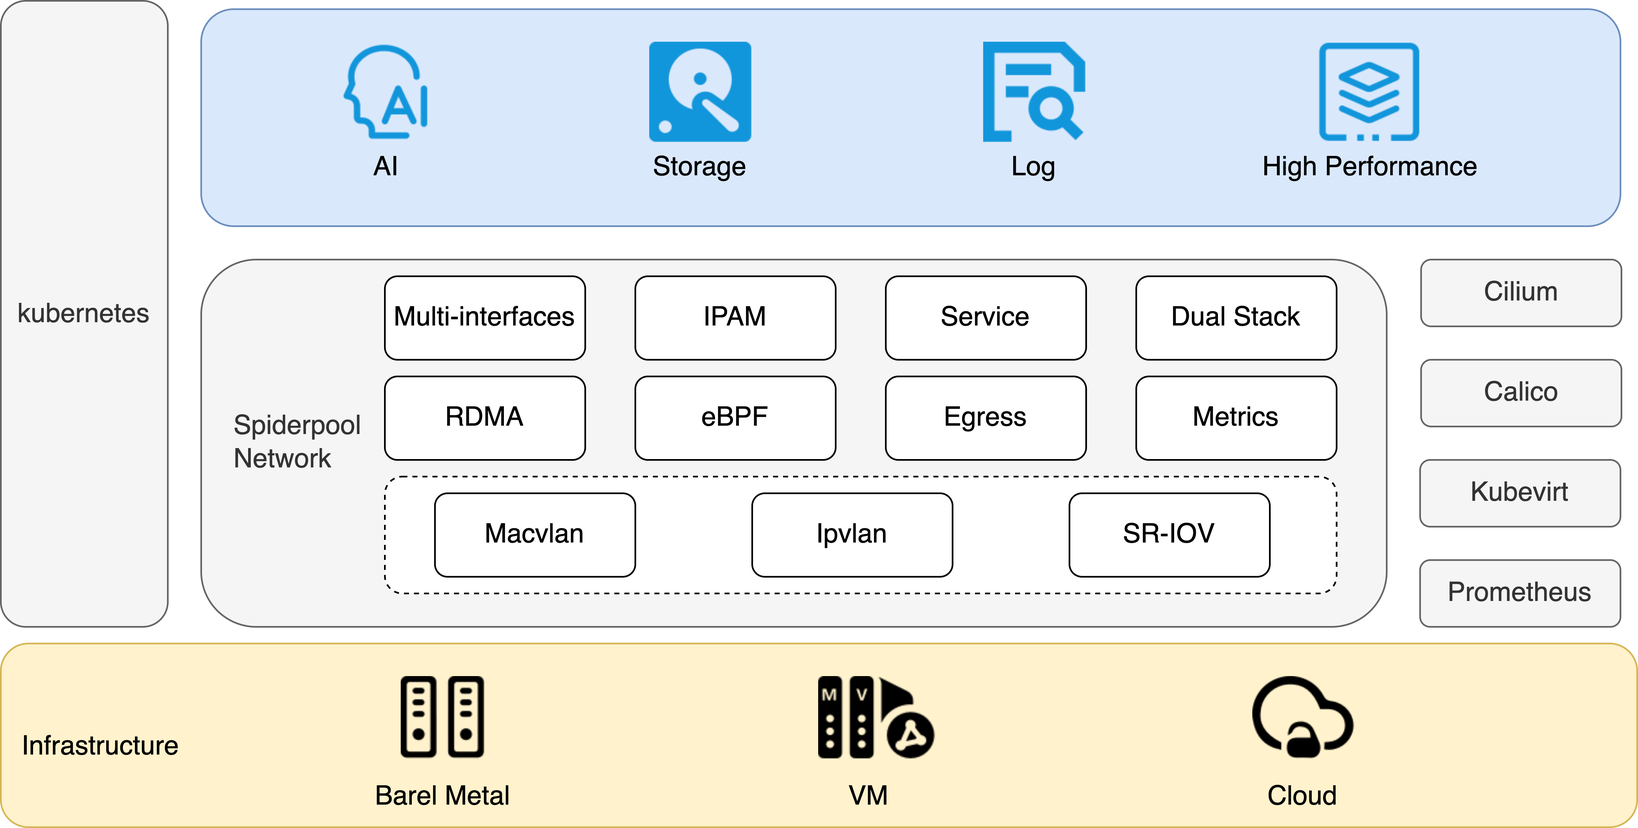
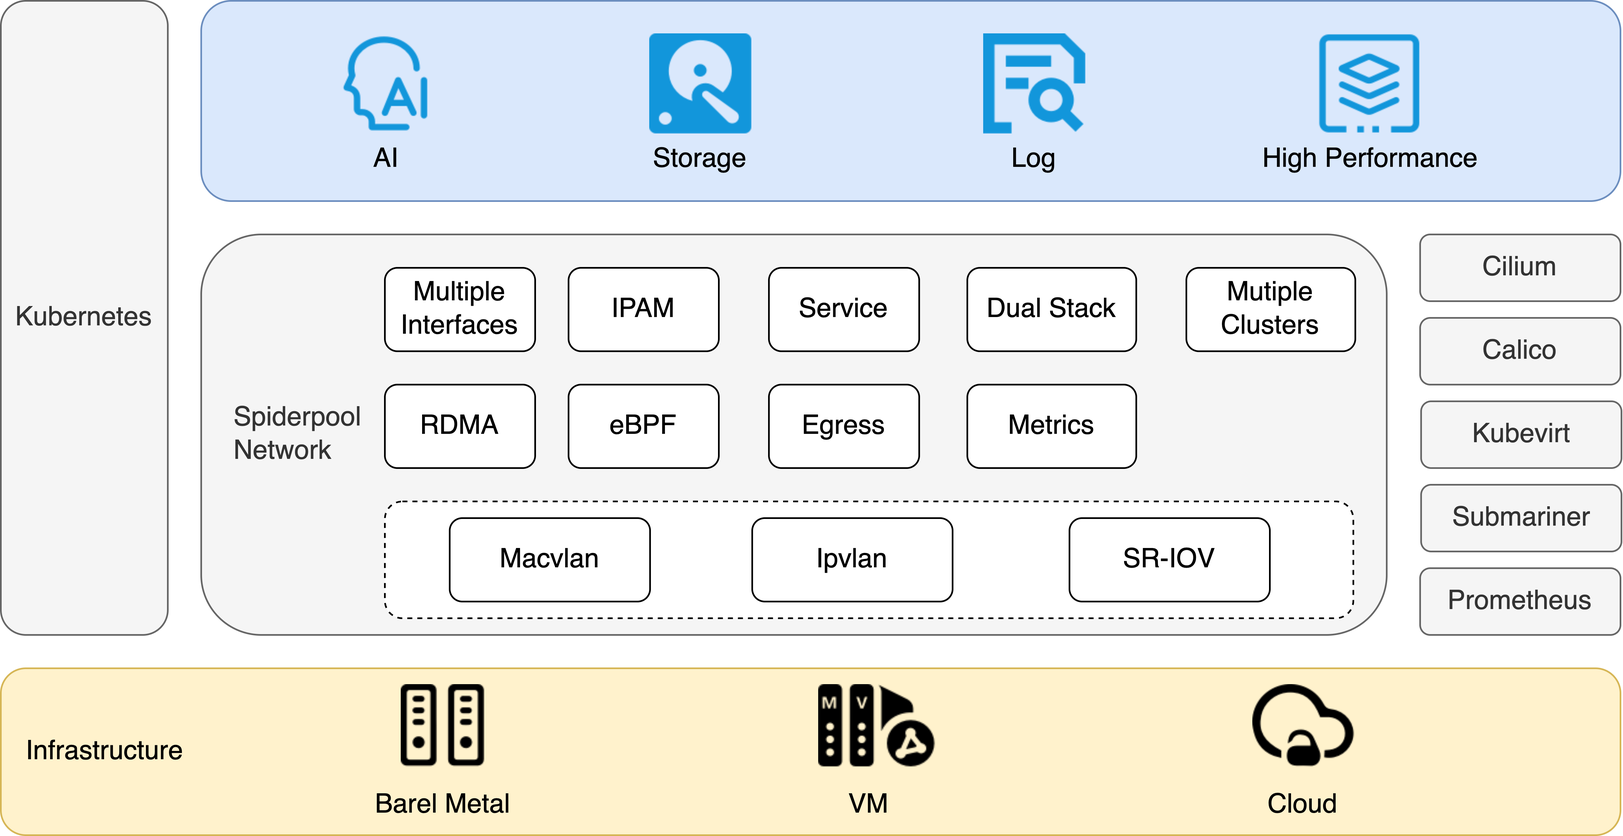
docs: rebase main

diff --git a/README.md b/README.md
@@ -20,9 +20,9 @@
 
 ## Introduction
 
-Spiderpool is a Kubernetes underlay network solution that enhances the capabilities of [Macvlan CNI](https://github.com/containernetworking/plugins/tree/main/plugins/main/macvlan),
+Spiderpool is an underlay and RDMA network solution for the Kubernetes. It enhances the capabilities of [Macvlan CNI](https://github.com/containernetworking/plugins/tree/main/plugins/main/macvlan),
 [ipvlan CNI](https://github.com/containernetworking/plugins/tree/main/plugins/main/ipvlan),
-[SR-IOV CNI](https://github.com/k8snetworkplumbingwg/sriov-cni).It fulfills various networking needs and enables the utilization of underlay network solutions in **bare metal, virtual machine, and public cloud environments**. Spiderpool delivers exceptional network performance, particularly benefiting network I/O-intensive and low-latency applications like **storage, middleware, and AI**.
+[SR-IOV CNI](https://github.com/k8snetworkplumbingwg/sriov-cni), and fulfills various networking needs and enables the utilization of underlay network solutions in **bare metal, virtual machine, and public cloud environments**. Spiderpool delivers exceptional network performance, particularly benefiting network I/O-intensive and low-latency applications like **storage, middleware, and AI**.
 It could refer to [website](https://spidernet-io.github.io/spiderpool/) for more details.
 
 **Why does Spiderpool select macvlan, ipvlan, and SR-IOV as datapaths?**
@@ -47,21 +47,21 @@ It could refer to [website](https://spidernet-io.github.io/spiderpool/) for more
 
     Spiderpool simplifies the installation process by eliminating the need for manually installing multiple components like [Multus CNI](https://github.com/k8snetworkplumbingwg/multus-cni). It provides streamlined installation procedures, encapsulates relevant CRDs, and offers comprehensive documentation for easy setup and management.
 
-* CRD-based dual-stack IPAM capability
+* CRD-based dual-stack IPAM
 
     Spiderpool provides exclusive and shared IP address pools, supporting various affinity settings. It allows configuring specific IP addresses for stateful applications like middleware and kubevirt, while enabling fixed IP address ranges for stateless ones. Spiderpool automates the management of exclusive IP pools, ensuring excellent IP reclamation to avoid IP leakage. In additions, it owns [wonderful IPAM performance](./docs/concepts/ipam-performance.md) .
 
-* Multiple network interface access for Pods
+* Multiple network interfaces for Pods
 
     Spiderpool enables scenarios where Pods can have multiple underlay CNI interfaces or a combination of overlay and underlay CNI interfaces. It ensures proper IP addressing for each CNI interface and effectively manages policy routing to maintain consistent data paths, eliminating packet loss concerns. It could strengthen [cilium](https://github.com/cilium/cilium), [calico](https://github.com/projectcalico/calico), [kubevirt](https://github.com/kubevirt/kubevirt) .
 
 * Enhanced network connectivity
 
-    Spiderpool establishes seamless connectivity between Pods and host machines, ensuring smooth functioning of Pod health checks. It enables Pods to access services through kube-proxy or eBPF-based kube-proxy replacement. Additionally, it supports advanced features like IP conflict detection and gateway reachability checks.
+    Spiderpool establishes seamless connectivity between Pods and host machines, ensuring smooth functioning of Pod health checks. It enables Pods to access services through kube-proxy or eBPF-based kube-proxy replacement. Additionally, it supports advanced features like IP conflict detection and gateway reachability checks. The network of Multi-cluster could be connected by a same underlay network, or [Submariner](https://github.com/submariner-io/submariner) .
 
 * eBPF enhancements
 
-    The eBPF-based kube-proxy replacement significantly accelerates service access, while socket short-circuiting technology improves local Pod communication efficiency within the same node. Compared with kube-proxy manner, [the improvement of the performance is Up to 25% on network delay, up to 50% on network throughput]((./docs/concepts/io-performance.md)).
+    The eBPF-based kube-proxy replacement significantly accelerates service access, while socket short-circuiting technology improves local Pod communication efficiency within the same node. Compared with kube-proxy manner, [the improvement of the performance is Up to 25% on network delay, up to 50% on network throughput](./docs/concepts/io-performance.md). 
 
 * RDMA support
 
@@ -93,6 +93,8 @@ Spiderpool, powered by underlay CNI, offers unparalleled network performance com
 
 Refer to [Quick start](./docs/usage/install/get-started-kind.md) to explore Spiderpool quickly.
 
+Refer to [Usage](./docs/usage/readme.md) for kinds of usages.
+
 ## Spiderpool Architecture
 
 Spiderpool features a well-designed and comprehensive architecture that caters to various application scenarios, including:
@@ -109,17 +111,18 @@ For more detailed information, please refer to [Spiderpool Architecture](./docs/
 
 ## Major Features
 
-| Features                               | macvlan    | ipvlan | SR-IOV      |
-|----------------------------------|------------|--|-------------|
-| Service by kubeproxy             | Beta       |  Beta | Beta        |
-| Service by kubeproxy replacement | Alpha      |  Alpha | Alpha       |
-| Network policy                   | In-plan    |  Alpha | In-plan     |
-| Bandwidth                        | In-plan    | Alpha | In-plan     |
-| RDMA                             | Alpha      | Alpha | Alpha       |
-| IPAM                             | Beta       | Beta | Beta        |
-| Egress policy                    | Alpha      | Alpha | Alpha       |
-| Multiple NIC and routing coordination                         | Beta       | Beta | Beta        |
-| Applied scenarios                             | Bare metal | Bare metal and VM | Bare metal  |
+| Features                               | macvlan    | ipvlan            | SR-IOV      |
+|----------------------------------|------------|-------------------|-------------|
+| Service By Kubeproxy             | Beta       | Beta              | Beta        |
+| Service By Kubeproxy Replacement | Alpha      | Alpha             | Alpha       |
+| Network Policy                   | In-plan    | Alpha             | In-plan     |
+| Bandwidth                        | In-plan    | Alpha             | In-plan     |
+| RDMA                             | Alpha      | Alpha             | Alpha       |
+| IPAM                             | Beta       | Beta              | Beta        |
+| Multi-Cluster                    | Alpha    | Alpha             | Alpha     |
+| Egress Policy                    | Alpha      | Alpha             | Alpha       |
+| Multiple NIC And Routing Coordination                         | Beta       | Beta              | Beta        |
+| Scenarios                             | Bare metal | Bare metal and VM | Bare metal  |
 
 For detailed information about all the planned features, please refer to the [roadmap](./docs/develop/roadmap.md).
 

diff --git a/docs/README.md b/docs/README.md
@@ -20,9 +20,9 @@
 
 ## Introduction
 
-Spiderpool is a Kubernetes underlay network solution that enhances the capabilities of [Macvlan CNI](https://github.com/containernetworking/plugins/tree/main/plugins/main/macvlan),
+Spiderpool is an underlay and RDMA network solution for the Kubernetes. It enhances the capabilities of [Macvlan CNI](https://github.com/containernetworking/plugins/tree/main/plugins/main/macvlan),
 [ipvlan CNI](https://github.com/containernetworking/plugins/tree/main/plugins/main/ipvlan),
-[SR-IOV CNI](https://github.com/k8snetworkplumbingwg/sriov-cni).It fulfills various networking needs and enables the utilization of underlay network solutions in **bare metal, virtual machine, and public cloud environments**. Spiderpool delivers exceptional network performance, particularly benefiting network I/O-intensive and low-latency applications like **storage, middleware, and AI**.
+[SR-IOV CNI](https://github.com/k8snetworkplumbingwg/sriov-cni), and fulfills various networking needs and enables the utilization of underlay network solutions in **bare metal, virtual machine, and public cloud environments**. Spiderpool delivers exceptional network performance, particularly benefiting network I/O-intensive and low-latency applications like **storage, middleware, and AI**.
 It could refer to [website](https://spidernet-io.github.io/spiderpool/) for more details.
 
 **Why does Spiderpool select macvlan, ipvlan, and SR-IOV as datapaths?**
@@ -47,21 +47,21 @@ It could refer to [website](https://spidernet-io.github.io/spiderpool/) for more
 
   Spiderpool simplifies the installation process by eliminating the need for manually installing multiple components like [Multus CNI](https://github.com/k8snetworkplumbingwg/multus-cni). It provides streamlined installation procedures, encapsulates relevant CRDs, and offers comprehensive documentation for easy setup and management.
 
-* CRD-based dual-stack IPAM capability
+* CRD-based dual-stack IPAM
 
   Spiderpool provides exclusive and shared IP address pools, supporting various affinity settings. It allows configuring specific IP addresses for stateful applications like middleware and kubevirt, while enabling fixed IP address ranges for stateless ones. Spiderpool automates the management of exclusive IP pools, ensuring excellent IP reclamation to avoid IP leakage. In additions, it owns [wonderful IPAM performance](./concepts/ipam-performance.md).
 
-* Multiple network interface access for Pods
+* Multiple network interfaces for Pods
 
   Spiderpool enables scenarios where Pods can have multiple underlay CNI interfaces or a combination of overlay and underlay CNI interfaces. It ensures proper IP addressing for each CNI interface and effectively manages policy routing to maintain consistent data paths, eliminating packet loss concerns. It could strengthen [cilium](https://github.com/cilium/cilium), [calico](https://github.com/projectcalico/calico), [kubevirt](https://github.com/kubevirt/kubevirt) .
 
 * Enhanced network connectivity
 
-  Spiderpool establishes seamless connectivity between Pods and host machines, ensuring smooth functioning of Pod health checks. It enables Pods to access services through kube-proxy or eBPF-based kube-proxy replacement. Additionally, it supports advanced features like IP conflict detection and gateway reachability checks.
+  Spiderpool establishes seamless connectivity between Pods and host machines, ensuring smooth functioning of Pod health checks. It enables Pods to access services through kube-proxy or eBPF-based kube-proxy replacement. Additionally, it supports advanced features like IP conflict detection and gateway reachability checks. The network of Multi-cluster could be connected by a same underlay network, or [Submariner](https://github.com/submariner-io/submariner) .
 
 * eBPF enhancements
 
-  The eBPF-based kube-proxy replacement significantly accelerates service access, while socket short-circuiting technology improves local Pod communication efficiency within the same node. Compared with kube-proxy manner, [the improvement of the performance is Up to 25% on network delay, up to 50% on network throughput](./concepts/io-performance.md).
+  The eBPF-based kube-proxy replacement significantly accelerates service access, while socket short-circuiting technology improves local Pod communication efficiency within the same node. Compared with kube-proxy manner, [the improvement of the performance is Up to 25% on network delay, up to 50% on network throughput](./concepts/io-performance.md). 
 
 * RDMA support
 
@@ -93,6 +93,8 @@ Spiderpool, powered by underlay CNI, offers unparalleled network performance com
 
 Refer to [Quick start](./usage/install/get-started-kind.md) to explore Spiderpool quickly.
 
+Refer to [Usage](./usage/readme.md) for kinds of usages.
+
 ## Spiderpool Architecture
 
 Spiderpool features a well-designed and comprehensive architecture that caters to various application scenarios, including:
@@ -109,17 +111,18 @@ For more detailed information, please refer to [Spiderpool Architecture](./conce
 
 ## Major Features
 
-| Features                               | macvlan    | ipvlan | SR-IOV      |
-|----------------------------------|------------|--|-------------|
-| Service by kubeproxy             | Beta       |  Beta | Beta        |
-| Service by kubeproxy replacement | Alpha      |  Alpha | Alpha       |
-| Network policy                   | In-plan    |  Alpha | In-plan     |
-| Bandwidth                        | In-plan    | Alpha | In-plan     |
-| RDMA                             | Alpha      | Alpha | Alpha       |
-| IPAM                             | Beta       | Beta | Beta        |
-| Egress policy                    | Alpha      | Alpha | Alpha       |
-| Multiple NIC and routing coordination                         | Beta       | Beta | Beta        |
-| Applied scenarios                             | Bare metal | Bare metal and VM | Bare metal  |
+| Features                               | macvlan    | ipvlan            | SR-IOV      |
+|----------------------------------|------------|-------------------|-------------|
+| Service By Kubeproxy             | Beta       | Beta              | Beta        |
+| Service By Kubeproxy Replacement | Alpha      | Alpha             | Alpha       |
+| Network Policy                   | In-plan    | Alpha             | In-plan     |
+| Bandwidth                        | In-plan    | Alpha             | In-plan     |
+| RDMA                             | Alpha      | Alpha             | Alpha       |
+| IPAM                             | Beta       | Beta              | Beta        |
+| Multi-Cluster                    | Alpha    | Alpha             | Alpha     |
+| Egress Policy                    | Alpha      | Alpha             | Alpha       |
+| Multiple NIC And Routing Coordination                         | Beta       | Beta              | Beta        |
+| Scenarios                             | Bare metal | Bare metal and VM | Bare metal  |
 
 For detailed information about all the planned features, please refer to the [roadmap](./develop/roadmap.md).
 

diff --git a/README-zh_CN.md b/README-zh_CN.md
@@ -17,7 +17,7 @@
 
 ## Spiderpool 介绍
 
-Spiderpool 是一个 kubernetes 的 underlay 网络解决方案，它增强了 [Macvlan CNI](https://github.com/containernetworking/plugins/tree/main/plugins/main/macvlan),
+Spiderpool 是一个 kubernetes 的 underlay 和 RDMA 网络解决方案，它增强了 [Macvlan CNI](https://github.com/containernetworking/plugins/tree/main/plugins/main/macvlan),
 [ipvlan CNI](https://github.com/containernetworking/plugins/tree/main/plugins/main/ipvlan),
 [SR-IOV CNI](https://github.com/k8snetworkplumbingwg/sriov-cni) 的功能，满足了各种网络需求，使得 underlay 网络方案可应用在**裸金属、虚拟机和公有云环境**中，可为网络 I/O 密集性、低延时应用带来优秀的网络性能，包括**存储、中间件、AI 等应用**。详细的文档可参考[文档站](https://spidernet-io.github.io/spiderpool/)
 
@@ -54,7 +54,7 @@ Spiderpool 是一个 kubernetes 的 underlay 网络解决方案，它增强了 [
 
 * 增强网络连通性
 
-    打通 Pod 和宿主机的连通性，确保 Pod 健康检测工作正常，并可通过 kube-proxy 或 eBPF kube-proxy replacement 使得 Pod 访问 service，支持 Pod 的 IP 冲突检测、网关可达性检测等。
+    打通 Pod 和宿主机的连通性，确保 Pod 健康检测工作正常，并可通过 kube-proxy 或 eBPF kube-proxy replacement 使得 Pod 访问 service，支持 Pod 的 IP 冲突检测、网关可达性检测等。多集群网络可基于相同的 underlay 网络或者 [Submariner](https://github.com/submariner-io/submariner) 实现联通。
 
 * eBPF 增强
 
@@ -90,6 +90,8 @@ Spiderpool 基于 underlay CNI 提供了比 overlay CNI 还优越的网络性能
 
 可参考 [快速搭建](./docs/usage/install/get-started-kind-zh_CN.md) 来使用 Spiderpool
 
+参考 [使用](./docs/usage/readme.md) 来了解各种功能的使用方法
+
 ## Spiderpool 架构
 
 Spiderpool 拥有清晰的架构设计，包括了如下应用场景：
@@ -108,13 +110,14 @@ Spiderpool 拥有清晰的架构设计，包括了如下应用场景：
 
 | 功能                               | macvlan  | ipvlan | SR-IOV    |
 |----------------------------------|----------|---|-----------|
-| service by kubeproxy             | Beta     |  Beta | Beta      |
-| service by kubeproxy replacement | Alpha    |  Alpha | Alpha     |
-| network policy                   | In-plan  |  Alpha | In-plan   |
-| bandwidth                        | In-plan  | Alpha  | In-plan    |
+| Service By Kubeproxy             | Beta     |  Beta | Beta      |
+| Service By Kubeproxy Replacement | Alpha    |  Alpha | Alpha     |
+| Network Policy                   | In-plan  |  Alpha | In-plan   |
+| Bandwidth                        | In-plan  | Alpha  | In-plan    |
 | RDMA                             | Alpha    | Alpha | Alpha     |
 | IPAM                             | Beta     | Beta | Beta      |
-| egress policy                    | Alpha    | Alpha | Alpha     |
+| Multi-Cluster                    | Alpha    | Alpha | Alpha     |
+| Egress Policy                    | Alpha    | Alpha | Alpha     |
 | 多网卡和路由调谐                         | beta     | beta | beta      |
 | 适用场景                             | 裸金属      | 裸金属和虚拟机 | 裸金属       |
 

diff --git a/docs/README-zh_CN.md b/docs/README-zh_CN.md
@@ -17,7 +17,7 @@
 
 ## Spiderpool 介绍
 
-Spiderpool 是一个 kubernetes 的 underlay 网络解决方案，它增强了 [Macvlan CNI](https://github.com/containernetworking/plugins/tree/main/plugins/main/macvlan),
+Spiderpool 是一个 kubernetes 的 underlay 和 RDMA 网络解决方案，它增强了 [Macvlan CNI](https://github.com/containernetworking/plugins/tree/main/plugins/main/macvlan),
 [ipvlan CNI](https://github.com/containernetworking/plugins/tree/main/plugins/main/ipvlan),
 [SR-IOV CNI](https://github.com/k8snetworkplumbingwg/sriov-cni) 的功能，满足了各种网络需求，使得 underlay 网络方案可应用在**裸金属、虚拟机和公有云环境**中，可为网络 I/O 密集性、低延时应用带来优秀的网络性能，包括**存储、中间件、AI 等应用**。详细的文档可参考[文档站](https://spidernet-io.github.io/spiderpool/)
 
@@ -54,7 +54,7 @@ Spiderpool 是一个 kubernetes 的 underlay 网络解决方案，它增强了 [
 
 * 增强网络连通性
 
-  打通 Pod 和宿主机的连通性，确保 Pod 健康检测工作正常，并可通过 kube-proxy 或 eBPF kube-proxy replacement 使得 Pod 访问 service，支持 Pod 的 IP 冲突检测、网关可达性检测等。
+  打通 Pod 和宿主机的连通性，确保 Pod 健康检测工作正常，并可通过 kube-proxy 或 eBPF kube-proxy replacement 使得 Pod 访问 service，支持 Pod 的 IP 冲突检测、网关可达性检测等。多集群网络可基于相同的 underlay 网络或者 [Submariner](https://github.com/submariner-io/submariner) 实现联通。
 
 * eBPF 增强
 
@@ -90,6 +90,8 @@ Spiderpool 基于 underlay CNI 提供了比 overlay CNI 还优越的网络性能
 
 可参考 [快速搭建](./usage/install/get-started-kind-zh_CN.md) 来使用 Spiderpool
 
+参考 [使用](./usage/readme.md) 来了解各种功能的使用方法
+
 ## Spiderpool 架构
 
 Spiderpool 拥有清晰的架构设计，包括了如下应用场景：
@@ -108,13 +110,14 @@ Spiderpool 拥有清晰的架构设计，包括了如下应用场景：
 
 | 功能                               | macvlan  | ipvlan | SR-IOV    |
 |----------------------------------|----------|---|-----------|
-| service by kubeproxy             | Beta     |  Beta | Beta      |
-| service by kubeproxy replacement | Alpha    |  Alpha | Alpha     |
-| network policy                   | In-plan  |  Alpha | In-plan   |
-| bandwidth                        | In-plan  | Alpha  | In-plan    |
+| Service By Kubeproxy             | Beta     |  Beta | Beta      |
+| Service By Kubeproxy Replacement | Alpha    |  Alpha | Alpha     |
+| Network Policy                   | In-plan  |  Alpha | In-plan   |
+| Bandwidth                        | In-plan  | Alpha  | In-plan    |
 | RDMA                             | Alpha    | Alpha | Alpha     |
 | IPAM                             | Beta     | Beta | Beta      |
-| egress policy                    | Alpha    | Alpha | Alpha     |
+| Multi-Cluster                    | Alpha    | Alpha | Alpha     |
+| Egress Policy                    | Alpha    | Alpha | Alpha     |
 | 多网卡和路由调谐                         | beta     | beta | beta      |
 | 适用场景                             | 裸金属      | 裸金属和虚拟机 | 裸金属       |
 

diff --git a/docs/develop/roadmap.md b/docs/develop/roadmap.md
@@ -58,7 +58,7 @@
 | dual-stack               | dual-stack                                                                                                                           | v0.2.0        | v0.4.0       |            |
 | CLI                      | debug and operate. check which pod an IP is taken by, check IP usage , trigger GC                                                    | In plan       |              |            |
 | multi-cluster            | a broker cluster could synchronize ippool resource within a same subnet from all member clusters, which could help avoid IP conflict | In plan       |              |            |
-|                          | support submariner                                                                                                                   | In plan       |              |            |
+|                          | support submariner                                                                                                                   | v0.8.0        |              |            |
 | dual CNI                 | underlay cooperate with cilium                                                                                                       | v0.7.0        |              |            |
 |                          | underlay cooperate with calico                                                                                                       | v0.7.0        |              |            |
 | RDMA                     | support macvlan and ipvlan CNI for RoCE device                                                                                       | v0.8.0        |              |            |

diff --git a/docs/concepts/arch.md b/docs/concepts/arch.md
@@ -18,7 +18,7 @@ Spiderpool consists of the following components:
 
   * coordinator plugin: as a chain plugin, it performs various functions such as routing coordination for multiple network interfaces, checking for IP conflicts, ensuring host connectivity, and fixing MAC addresses. refer to [coordinator](../concepts/coordinator.md)
 
-  * ifacer plugin: as a chain plugin, it automates the creation of bond and VLAN virtual interfaces that serve as parent interfaces for plugins like macvlan and ipvlan. refer to [Ifacer 插件](../reference/plugin-ifacer.md)
+  * ifacer plugin: as a chain plugin, it automates the creation of bond and VLAN virtual interfaces that serve as parent interfaces for plugins like macvlan and ipvlan. refer to [Ifacer Plugin](../reference/plugin-ifacer.md)
 
   * [Multus CNI](https://github.com/k8snetworkplumbingwg/multus-cni): a scheduler for other CNI plugins.
 

diff --git a/docs/usage/readme.md b/docs/usage/readme.md
@@ -125,6 +125,8 @@ For instructions on how to upgrade Spiderpool, please refer to the [upgrade guid
 
 - Spiderpool assists in IP address conflict detection and gateway reachability checks, ensuring uninterrupted Pod communication. Refer to the [example](../concepts/coordinator.md) for details.
 
+- The network of Multi-cluster could be connected by a same underlay network, or [Submariner](./submariner.md) .
+
 ### Operations and Management
 
 - Spiderpool dynamically creates BOND interfaces and VLAN sub-interfaces on the host machine during Pod startup. This feature assists in setting up master interfaces for  [Macvlan CNI](https://github.com/containernetworking/plugins/tree/main/plugins/main/macvlan) and [ipvlan CNI](https://github.com/containernetworking/plugins/tree/main/plugins/main/ipvlan). Check out the [example](../reference/plugin-ifacer.md) for implementation details.

diff --git a/docs/usage/readme-zh_CN.md b/docs/usage/readme-zh_CN.md
@@ -126,6 +126,8 @@
 
 - 能够帮助实施 IP 地址冲突检测、网关可达性检测，以保证 Pod 通信正常，可参考[例子](../concepts/coordinator.md)。
 
+- 多集群网络可基于相同的 underlay 网络或者 [Submariner](./submariner-zh_CN.md) 实现联通。
+
 ### 运维管理功能
 
 - 在 Pod 启动时，能够在宿主机上动态创建 BOND 接口和 VLAN 子接口，以帮助

diff --git a/docs/usage/submariner.md b/docs/usage/submariner.md
@@ -1,4 +1,4 @@
-# Multi-Cluster Networking Solution Based on Submariner
+# Multi-Cluster Networking
 
 **English** | [**简体中文**](./submariner-zh_CN.md)
 

diff --git a/docs/usage/submariner-zh_CN.md b/docs/usage/submariner-zh_CN.md
@@ -1,4 +1,4 @@
-# 基于 Submariner 的多集群网络方案
+# 联通多集群网络
 
 [**English**](./submariner.md) | **简体中文**
 
